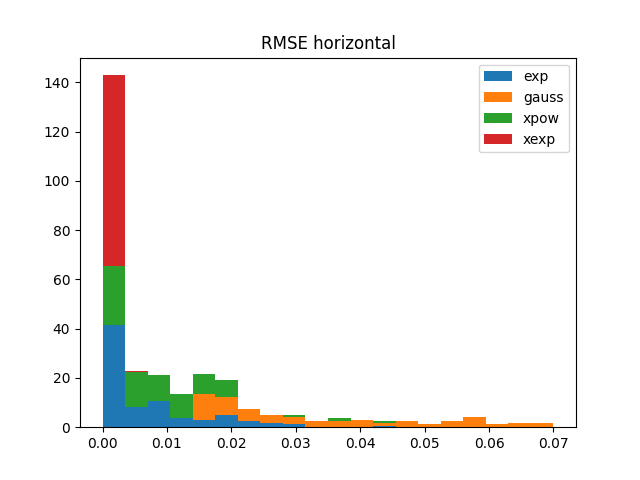
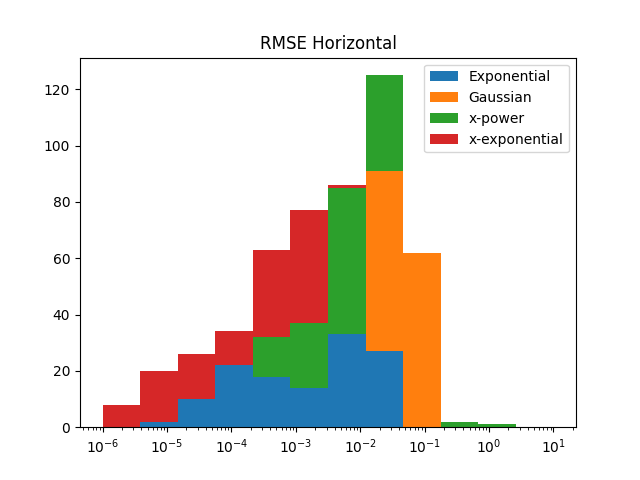
s

diff --git a/Transposed.py b/Transposed.py
@@ -130,193 +130,15 @@ for filename in os.listdir(files_T):
     RMSE_xpow_all = np.append(RMSE_xpow_all, RMSE_xpow)
     RMSE_xexp_all = np.append(RMSE_xexp_all, RMSE_xexp)
 
-    if filename[0:-6] == "20200220_221521":
-        imagePlacement = os.getcwd() + '\\variables\\' + filename[0:-6] + '.txt'
-        with open(imagePlacement, 'r') as f:
-            f.readline()
-            f.readline()
-            f.readline()
-            marginX = int(f.readline()[0:-1])
-            conversion = np.float64(f.readline()[0:-1])
-        blox = np.int32(np.round(np.linspace(0,2*marginX,4)))
-        for i in range(3):
-            sections[i] = (blox[i] + blox[i+1])/2 * conversion
-        ax1.scatter(sections, L, c = 'k')
-        ax1.errorbar(sections, L, sigma, ls = 'none', c='k')
-    if filename[0:-6] == "20200220_223734":
-        imagePlacement = os.getcwd() + '\\variables\\' + filename[0:-6] + '.txt'
-        with open(imagePlacement, 'r') as f:
-            f.readline()
-            f.readline()
-            f.readline()
-            marginX = int(f.readline()[0:-1])
-            conversion = np.float64(f.readline()[0:-1])
-        blox = np.int32(np.round(np.linspace(0,2*marginX,4)))
-        for i in range(3):
-            sections[i] = (blox[i] + blox[i+1])/2 * conversion + 100
-        ax1.scatter(sections, L, c = 'k')
-        ax1.errorbar(sections, L, sigma, ls = 'none', c='k')
-    if filename[0:-6] == "20200220_225515":
-        imagePlacement = os.getcwd() + '\\variables\\' + filename[0:-6] + '.txt'
-        with open(imagePlacement, 'r') as f:
-            f.readline()
-            f.readline()
-            f.readline()
-            marginX = int(f.readline()[0:-1])
-            conversion = np.float64(f.readline()[0:-1])
-        blox = np.int32(np.round(np.linspace(0,2*marginX,4)))
-        for i in range(3):
-            sections[i] = (blox[i] + blox[i+1])/2 * conversion + 200
-        ax1.scatter(sections, L, c = 'k')
-        ax1.errorbar(sections, L, sigma, ls = 'none', c='k')
-    if filename[0:-6] == "20200220_231318":
-        imagePlacement = os.getcwd() + '\\variables\\' + filename[0:-6] + '.txt'
-        with open(imagePlacement, 'r') as f:
-            f.readline()
-            f.readline()
-            f.readline()
-            marginX = int(f.readline()[0:-1])
-            conversion = np.float64(f.readline()[0:-1])
-        blox = np.int32(np.round(np.linspace(0,2*marginX,4)))
-        for i in range(3):
-            sections[i] = (blox[i] + blox[i+1])/2 * conversion + 300
-        ax1.scatter(sections, L, c = 'k')
-        ax1.errorbar(sections, L, sigma, ls = 'none', c='k')
-        ax1.set_title('No. 1, 2, 3 and 4')
-
-    if filename[0:-6] == "20200206_094159":
-        imagePlacement = os.getcwd() + '\\variables\\' + filename[0:-6] + '.txt'
-        with open(imagePlacement, 'r') as f:
-            f.readline()
-            f.readline()
-            f.readline()
-            marginX = int(f.readline()[0:-1])
-            conversion = np.float64(f.readline()[0:-1])
-        blox = np.int32(np.round(np.linspace(0,2*marginX,4)))
-        for i in range(3):
-            sections[i] = (blox[i] + blox[i+1])/2 * conversion
-        ax2.scatter(sections, L, c = 'k')
-        ax2.errorbar(sections, L, sigma, ls = 'none', c='k')
-    if filename[0:-6] == "20200206_101354":
-        imagePlacement = os.getcwd() + '\\variables\\' + filename[0:-6] + '.txt'
-        with open(imagePlacement, 'r') as f:
-            f.readline()
-            f.readline()
-            f.readline()
-            marginX = int(f.readline()[0:-1])
-            conversion = np.float64(f.readline()[0:-1])
-        blox = np.int32(np.round(np.linspace(0,2*marginX,4)))
-        for i in range(3):
-            sections[i] = (blox[i] + blox[i+1])/2 * conversion + 100
-        ax2.scatter(sections, L, c = 'k')
-        ax2.errorbar(sections, L, sigma, ls = 'none', c='k')
-    if filename[0:-6] == "20200206_103511":
-        imagePlacement = os.getcwd() + '\\variables\\' + filename[0:-6] + '.txt'
-        with open(imagePlacement, 'r') as f:
-            f.readline()
-            f.readline()
-            f.readline()
-            marginX = int(f.readline()[0:-1])
-            conversion = np.float64(f.readline()[0:-1])
-        blox = np.int32(np.round(np.linspace(0,2*marginX,4)))
-        for i in range(3):
-            sections[i] = (blox[i] + blox[i+1])/2 * conversion + 200
-        ax2.scatter(sections, L, c = 'k')
-        ax2.errorbar(sections, L, sigma, ls = 'none', c='k')
-        ax2.set_title('No. 5,6 and 7')
-
-    if filename[0:-6] == "20200122_215146":
-        imagePlacement = os.getcwd() + '\\variables\\' + filename[0:-6] + '.txt'
-        with open(imagePlacement, 'r') as f:
-            f.readline()
-            f.readline()
-            f.readline()
-            marginX = int(f.readline()[0:-1])
-            conversion = np.float64(f.readline()[0:-1])
-        blox = np.int32(np.round(np.linspace(0,2*marginX,4)))
-        for i in range(3):
-            sections[i] = (blox[i] + blox[i+1])/2 * conversion
-        ax3.scatter(sections, L, c = 'k')
-        ax3.errorbar(sections, L, sigma, ls = 'none', c='k')
-    if filename[0:-6] == "20200122_221025":
-        imagePlacement = os.getcwd() + '\\variables\\' + filename[0:-6] + '.txt'
-        with open(imagePlacement, 'r') as f:
-            f.readline()
-            f.readline()
-            f.readline()
-            marginX = int(f.readline()[0:-1])
-            conversion = np.float64(f.readline()[0:-1])
-        blox = np.int32(np.round(np.linspace(0,2*marginX,4)))
-        for i in range(3):
-            sections[i] = (blox[i] + blox[i+1])/2 * conversion + 130
-        ax3.scatter(sections, L, c = 'k')
-        ax3.errorbar(sections, L, sigma, ls = 'none', c='k')
-    if filename[0:-6] == "20200122_222713":
-        imagePlacement = os.getcwd() + '\\variables\\' + filename[0:-6] + '.txt'
-        with open(imagePlacement, 'r') as f:
-            f.readline()
-            f.readline()
-            f.readline()
-            marginX = int(f.readline()[0:-1])
-            conversion = np.float64(f.readline()[0:-1])
-        blox = np.int32(np.round(np.linspace(0,2*marginX,4)))
-        for i in range(3):
-            sections[i] = (blox[i] + blox[i+1])/2 * conversion + 225
-        ax3.scatter(sections, L, c = 'k')
-        ax3.errorbar(sections, L, sigma, ls = 'none', c='k')
-        ax3.set_title('No. 8, 9 and 10')
-        
-    if filename[0:-6] == "20200219_135306":
-        imagePlacement = os.getcwd() + '\\variables\\' + filename[0:-6] + '.txt'
-        with open(imagePlacement, 'r') as f:
-            f.readline()
-            f.readline()
-            f.readline()
-            marginX = int(f.readline()[0:-1])
-            conversion = np.float64(f.readline()[0:-1])
-        blox = np.int32(np.round(np.linspace(0,2*marginX,4)))
-        for i in range(3):
-            sections[i] = (blox[i] + blox[i+1])/2 * conversion
-        ax4.scatter(sections, L, c = 'k')
-        ax4.errorbar(sections, L, sigma, ls = 'none', c='k')
-    if filename[0:-6] == "20200219_141939":
-        imagePlacement = os.getcwd() + '\\variables\\' + filename[0:-6] + '.txt'
-        with open(imagePlacement, 'r') as f:
-            f.readline()
-            f.readline()
-            f.readline()
-            marginX = int(f.readline()[0:-1])
-            conversion = np.float64(f.readline()[0:-1])
-        blox = np.int32(np.round(np.linspace(0,2*marginX,4)))
-        for i in range(3):
-            sections[i] = (blox[i] + blox[i+1])/2 * conversion + 130
-        ax4.scatter(sections, L, c = 'k')
-        ax4.errorbar(sections, L, sigma, ls = 'none', c='k')
-    if filename[0:-6] == "20200219_143636":
-        imagePlacement = os.getcwd() + '\\variables\\' + filename[0:-6] + '.txt'
-        with open(imagePlacement, 'r') as f:
-            f.readline()
-            f.readline()
-            f.readline()
-            marginX = int(f.readline()[0:-1])
-            conversion = np.float64(f.readline()[0:-1])
-        blox = np.int32(np.round(np.linspace(0,2*marginX,4)))
-        for i in range(3):
-            sections[i] = (blox[i] + blox[i+1])/2 * conversion + 225
-        ax4.scatter(sections, L, c = 'k')
-        ax4.errorbar(sections, L, sigma, ls = 'none', c='k')
-        ax4.set_title('No. 11, 12 and 13')
-
-fig.savefig('errorDepth_T')
-
-
 plt.close()
-fig = plt.figure(1)
-plt.title('RMSE vertical')
-plt.hist([RMSE_exp_all, RMSE_gauss_all, RMSE_xpow_all, RMSE_xexp_all], stacked = True, range = (0,0.07), bins=20, density=True)
+fig = plt.figure()
+plt.title('RMSE Vertical')
+logbins = np.logspace(np.log10(10**(-6)), np.log10(10), 13)
+plt.hist([RMSE_exp_all, RMSE_gauss_all, RMSE_xpow_all, RMSE_xexp_all], stacked = True, bins=logbins)
 plt.legend(['Exponential', 'Gaussian', 'x-power', 'x-exponential'])
+plt.xscale('log')
 fig.savefig('RMSE_T')
-
+plt.close()
 
     
 

diff --git a/nonTranposed.py b/nonTranposed.py
@@ -320,11 +320,16 @@ for filename in os.listdir(files_nonT):
 fig.savefig('errorDepth')
 
 
+print(np.min(RMSE_xexp_all))
+print(np.max(RMSE_gauss_all))
+
 plt.close()
 fig = plt.figure(1)
-plt.title('RMSE horizontal')
-plt.hist([RMSE_exp_all, RMSE_gauss_all, RMSE_xpow_all, RMSE_xexp_all], stacked = True, bins=20, range=(0,0.07), density=True)
-plt.legend(['exp', 'gauss', 'xpow', 'xexp'])
+plt.title('RMSE Horizontal')
+logbins = np.logspace(np.log10(10**(-6)), np.log10(10), 13)
+plt.hist([RMSE_exp_all, RMSE_gauss_all, RMSE_xpow_all, RMSE_xexp_all], stacked = True, bins=logbins)
+plt.legend(['Exponential', 'Gaussian', 'x-power', 'x-exponential'])
+plt.xscale('log')
 fig.savefig('RMSE')
 plt.close()
 
